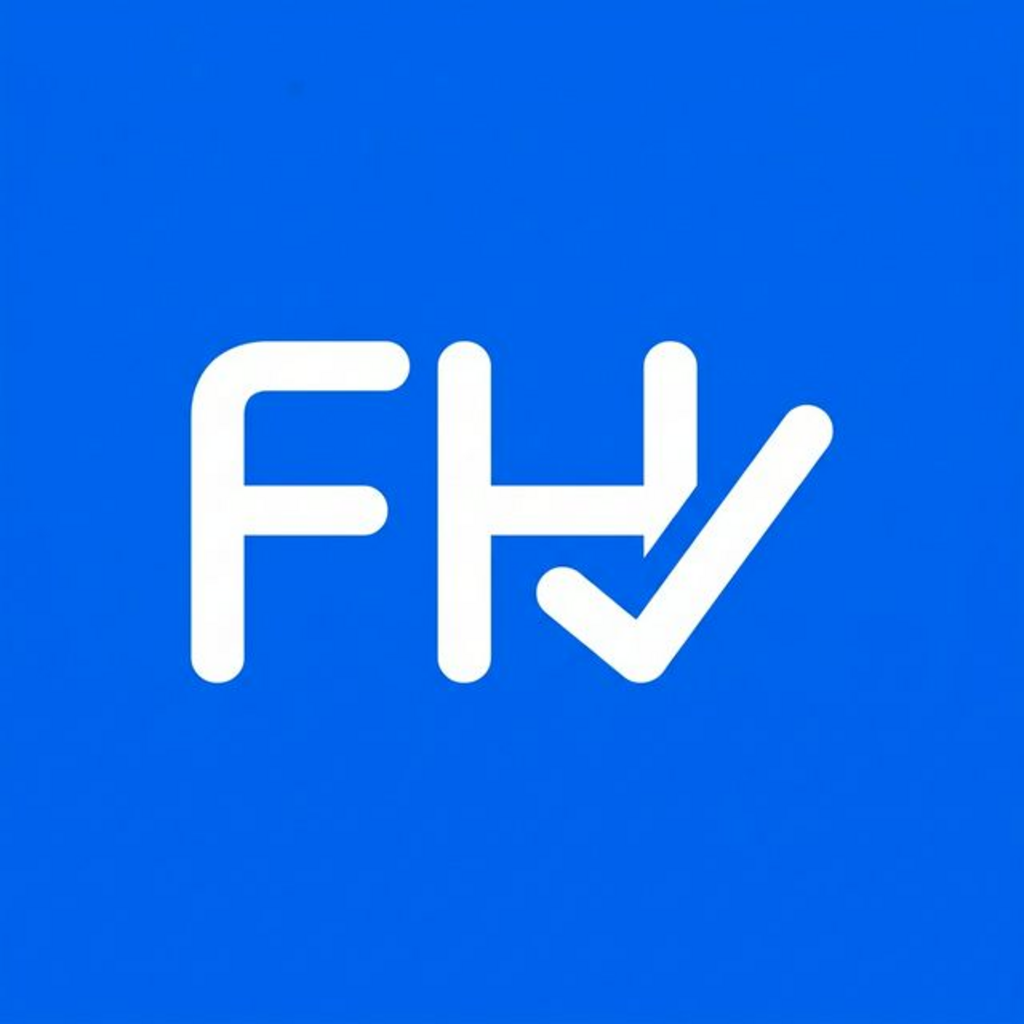
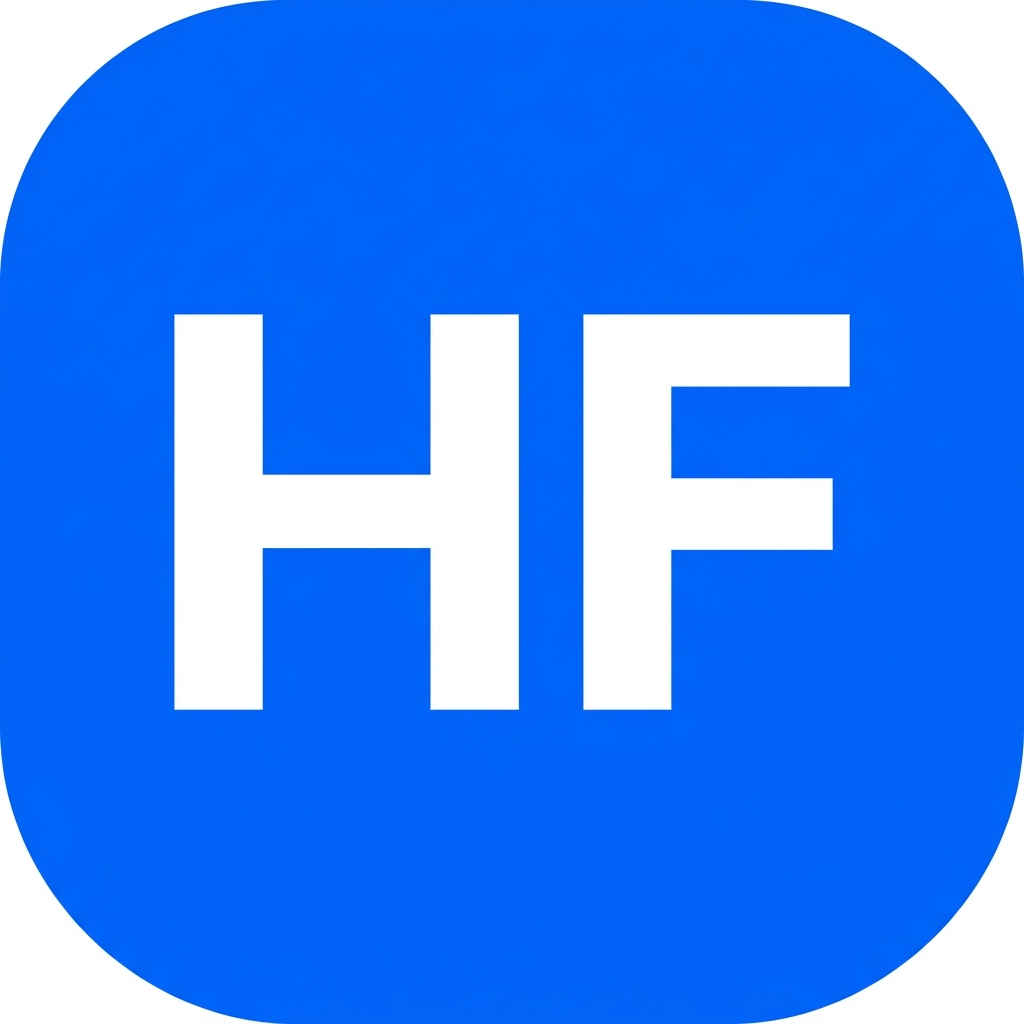
feat: change name HabitFin (#15)
* feat: change name HabitFin

* feat: change image with the new name

* chore: fix prettier

diff --git a/src/i18n/es.ts b/src/i18n/es.ts
@@ -256,12 +256,12 @@ export const es = {
   aboutApp: 'Sobre la App',
   privacyPolicy: 'Política de Privacidad',
   appDescription:
-    'FinHabit es una herramienta simple y poderosa diseñada para ayudarte a rastrear tus gastos, gestionar presupuestos y alcanzar tus metas financieras. Todos tus datos se almacenan localmente en tu dispositivo.',
+    'HabitFin es una herramienta simple y poderosa diseñada para ayudarte a rastrear tus gastos, gestionar presupuestos y alcanzar tus metas financieras. Todos tus datos se almacenan localmente en tu dispositivo.',
   version: 'Versión',
   contactEmailLabel: 'Correo de Contacto',
   dataCollectionTitle: 'Recopilación de Datos',
   dataCollectionContent:
-    'FinHabit NO recopila ningún dato personal. Toda la información que ingresas (transacciones, cuentas, metas) se almacena localmente en tu dispositivo y nunca se sube a nuestros servidores.',
+    'HabitFin NO recopila ningún dato personal. Toda la información que ingresas (transacciones, cuentas, metas) se almacena localmente en tu dispositivo y nunca se sube a nuestros servidores.',
   howDataIsUsedTitle: 'Cómo se usan los datos',
   howDataIsUsedContent:
     'Los datos que proporcionas se utilizan exclusivamente para mostrarte tus estadísticas financieras, gestionar tus presupuestos y rastrear tus metas dentro de la aplicación.',
@@ -299,11 +299,11 @@ export const es = {
   insightSavingMoney: '¡Estás ahorrando dinero este mes!',
   insightKeepGoing: '¡Sigue registrando para obtener consejos!',
   feedback: 'Feedback',
-  feedbackDesc: 'Ayúdanos a mejorar FinHabit con tus sugerencias',
+  feedbackDesc: 'Ayúdanos a mejorar HabitFin con tus sugerencias',
   feedbackPlaceholder: 'Cuéntanos qué piensas o reporta un error...',
   sendFeedback: 'Enviar Feedback',
   donate: 'Donar',
-  donateDesc: 'Apoya el desarrollo de FinHabit',
+  donateDesc: 'Apoya el desarrollo de HabitFin',
   buyMeACoffee: 'Invitame a un café',
   amountTooltip: 'Ingresa el valor de la transacción.',
   accountTooltip: 'Selecciona a qué cuenta pertenece esta transacción.',
@@ -312,7 +312,7 @@ export const es = {
   withdrawFrom: 'Retirar de',
   depositTo: 'Depositar en',
   selectDate: 'Seleccionar Fecha',
-  onboardingWelcome: 'Bienvenido a FinHabit',
+  onboardingWelcome: 'Bienvenido a HabitFin',
   onboardingDesc:
     'La forma más sencilla de rastrear tus gastos y construir mejores hábitos financieros.',
   detectedLanguage: 'Idioma Detectado',

diff --git a/src/i18n/en.ts b/src/i18n/en.ts
@@ -250,13 +250,13 @@ export const en = {
   aboutApp: 'About the App',
   privacyPolicy: 'Privacy Policy',
   appDescription:
-    'FinHabit is a simple and powerful tool designed to help you track your expenses, manage budgets, and reach your financial goals. All your data is stored locally on your device.',
+    'HabitFin is a simple and powerful tool designed to help you track your expenses, manage budgets, and reach your financial goals. All your data is stored locally on your device.',
   version: 'Version',
   contactEmailLabel: 'Contact Email',
   website: 'Website',
   dataCollectionTitle: 'Data Collection',
   dataCollectionContent:
-    'FinHabit does NOT collect any personal data. All information you enter (transactions, accounts, goals) is stored locally on your device and is never uploaded to our servers.',
+    'HabitFin does NOT collect any personal data. All information you enter (transactions, accounts, goals) is stored locally on your device and is never uploaded to our servers.',
   howDataIsUsedTitle: 'How Data is Used',
   howDataIsUsedContent:
     'The data you provide is used exclusively to show you your financial statistics, manage your budgets, and track your goals within the app.',
@@ -293,11 +293,11 @@ export const en = {
   insightSavingMoney: 'You are saving money this month!',
   insightKeepGoing: 'Keep tracking to get insights!',
   feedback: 'Feedback',
-  feedbackDesc: 'Help us improve FinHabit with your suggestions',
+  feedbackDesc: 'Help us improve HabitFin with your suggestions',
   feedbackPlaceholder: 'Tell us what you think or report a bug...',
   sendFeedback: 'Send Feedback',
   donate: 'Donate',
-  donateDesc: 'Support the development of FinHabit',
+  donateDesc: 'Support the development of HabitFin',
   buyMeACoffee: 'Invite me a coffee',
   amountTooltip: 'Enter the value of the transaction.',
   accountTooltip: 'Select which account this transaction belongs to.',
@@ -306,7 +306,7 @@ export const en = {
   withdrawFrom: 'Withdraw From',
   depositTo: 'Deposit To',
   selectDate: 'Select Date',
-  onboardingWelcome: 'Welcome to FinHabit',
+  onboardingWelcome: 'Welcome to HabitFin',
   onboardingDesc:
     'The simplest way to track your expenses and build better financial habits.',
   detectedLanguage: 'Detected Language',

diff --git a/src/theme/theme.ts b/src/theme/theme.ts
@@ -1,20 +1,39 @@
 import { MD3DarkTheme, MD3LightTheme } from 'react-native-paper';
 
-const fintechPrimaryLight = '#005CEE'; // Clean, modern fintech blue
-const fintechPrimaryDark = '#669CFF';
+// Branding colors
+const trustBlue = '#005CEE';
+const habitMint = '#00E676';
+const obsidian = '#121212';
+const paperGray = '#F8F9FA';
 
 export const lightTheme = {
   ...MD3LightTheme,
+  roundness: 6, // Corresponds to 24px (2xl) for most components in RN Paper
   colors: {
     ...MD3LightTheme.colors,
-    primary: fintechPrimaryLight,
+    primary: trustBlue,
+    secondary: habitMint,
+    surface: paperGray,
+    background: '#FFFFFF',
+    elevation: {
+      ...MD3LightTheme.colors.elevation,
+      level1: '#FFFFFF',
+    },
   },
 };
 
 export const darkTheme = {
   ...MD3DarkTheme,
+  roundness: 6,
   colors: {
     ...MD3DarkTheme.colors,
-    primary: fintechPrimaryDark,
+    primary: trustBlue,
+    secondary: habitMint,
+    surface: '#1E1E1E',
+    background: obsidian,
+    elevation: {
+      ...MD3DarkTheme.colors.elevation,
+      level1: '#1E1E1E',
+    },
   },
 };

diff --git a/app.config.js b/app.config.js
@@ -11,7 +11,7 @@ const getPackageName = () => {
 };
 
 const getAppName = () => {
-  const baseName = 'FinHabit';
+  const baseName = 'HabitFin';
   if (variant === 'development') return `${baseName} (Dev)`;
   if (variant === 'preview') return `${baseName} (Preview)`;
   return baseName;
@@ -39,7 +39,7 @@ module.exports = {
     version: '1.0.1',
     orientation: 'portrait',
     icon: getIcon(),
-    scheme: 'finhabit',
+    scheme: 'habitfin',
     userInterfaceStyle: 'automatic',
     newArchEnabled: true,
     runtimeVersion: {
@@ -88,7 +88,9 @@ module.exports = {
       [
         'react-native-google-mobile-ads',
         {
-          androidAppId: process.env.ADMOB_ANDROID_APP_ID || 'ca-app-pub-3940256099942544~3347511713',
+          androidAppId:
+            process.env.ADMOB_ANDROID_APP_ID ||
+            'ca-app-pub-3940256099942544~3347511713',
         },
       ],
       'expo-build-properties',

diff --git a/src/screens/AboutScreen.tsx b/src/screens/AboutScreen.tsx
@@ -18,7 +18,7 @@ export const AboutScreen = () => {
   const insets = useSafeAreaInsets();
   const styles = createStyles(theme);
 
-  const appName = Constants.expoConfig?.name || 'FinHabit';
+  const appName = Constants.expoConfig?.name || 'HabitFin';
   const version = Constants.expoConfig?.version;
 
   const handleEmail = () => {

diff --git a/src/screens/SettingsScreen.tsx b/src/screens/SettingsScreen.tsx
@@ -16,7 +16,7 @@ export const SettingsScreen = () => {
   const insets = useSafeAreaInsets();
 
   const handleOpenEmail = () => {
-    const subject = `FinHabit Feedback (${language})`;
+    const subject = `HabitFin Feedback (${language})`;
     Linking.openURL(`mailto:nmena.garzon@gmail.com?subject=${subject}`);
   };
 
